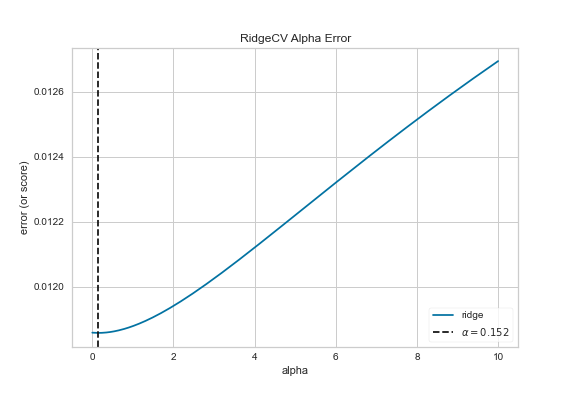
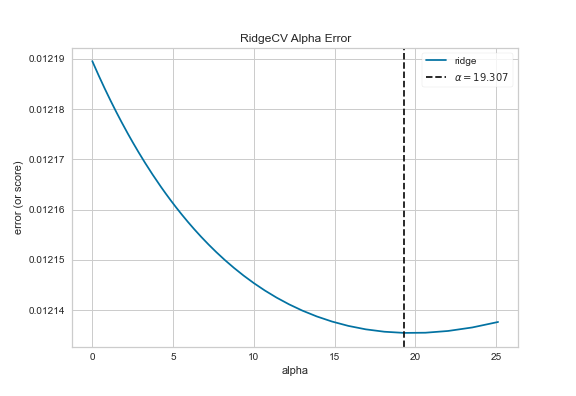
norm ICV

diff --git a/alphachecking_Rachel.py b/alphachecking_Rachel.py
@@ -12,6 +12,11 @@ from sklearn.model_selection import train_test_split
 from yellowbrick.regressor import ResidualsPlot,  AlphaSelection
 import matplotlib.pyplot as plt
 
+#split data into features and predictor
+def splitdata(df, feat, predictors):   
+    y = df[feat]
+    X = df[predictors]
+    return X, y
 
 #import data
 df_all = pd.read_excel('CondensedDataandKey.xlsx',sheet_name='data')
@@ -34,11 +39,19 @@ df['AgeCat'] = df['Age'].replace(age_dict)
 
 df['Bilat_Hippo_Vol'] = df['FS_L_Hippo_Vol'] + df['FS_R_Hippo_Vol']
 
+ICV, HippoVol = splitdata(df, 'FS_IntraCranial_Vol', 'Bilat_Hippo_Vol')
+ICV = pd.DataFrame(ICV)
+normlize_hippo = LinearRegression()
+normlize_hippo.fit(ICV, HippoVol)
+
+prediction = normlize_hippo.predict(ICV)
+df['Bilat_Hippo_normICV'] = (HippoVol - prediction)
+
 #variables we're controlling for
-control_vars = ['Gender','AgeCat','FS_IntraCranial_Vol']
+control_vars = ['Gender','AgeCat']
 
 #Total PSQI and controls
-pred_PSQI_tot_vars = ['PSQI_Score', 'Gender','AgeCat','FS_IntraCranial_Vol']
+pred_PSQI_tot_vars = ['PSQI_Score', 'Gender','AgeCat']
 
 #PSQI Component subscores (7) 
 pred_PSQI_comp_vars = ['PSQI_Comp1', 'PSQI_Comp2', 'PSQI_Comp3', 'PSQI_Comp4', 'PSQI_Comp5', 'PSQI_Comp6', 'PSQI_Comp7'] + control_vars
@@ -46,7 +59,7 @@ pred_PSQI_comp_vars = ['PSQI_Comp1', 'PSQI_Comp2', 'PSQI_Comp3', 'PSQI_Comp4', '
 pred_cog_vars = ['CogFluidComp_AgeAdj','CogCrystalComp_AgeAdj'] + control_vars
 
 def checkOptimalAlphaTrain(X_train, y_train, savefigure=False):
-    alphas = np.logspace(-10, 1, 400)
+    alphas = np.logspace(-10, 1.4, 400)
     
     # Instantiate the linear model and visualizer
     model = RidgeCV(alphas=alphas)
@@ -88,7 +101,6 @@ def runRidgeRegPresplit(df, X_train, X_test, y_train, y_test, alpha=1):
 
     return linreg, actualvspred, train_results
 
-
 #X, y = splitdata_normalize(df, 'FS_L_Hippo_Vol', pred_PSQI_tot_vars)
 #checkOptimalAlpha(X,y)
 #X,y = splitdata_normalize(df, 'FS_R_Hippo_Vol', pred_PSQI_tot_vars)
@@ -99,21 +111,21 @@ def runRidgeRegPresplit(df, X_train, X_test, y_train, y_test, alpha=1):
 #checkOptimalAlpha(X,y)
 
 
-X_1, y_1 = splitdata_normalize(df, 'Bilat_Hippo_Vol', pred_PSQI_tot_vars)
+X_1, y_1 = splitdata_normalize(df, 'Bilat_Hippo_normICV', pred_PSQI_tot_vars)
 X_train_1, X_test_1, y_train_1, y_test_1 = train_test_split(X_1, y_1, test_size=0.25, random_state=None)
 alpha_1 = checkOptimalAlphaTrain(X_train_1, y_train_1, savefigure = 'alphaTotPSQI.png')
 TotPSQI_reg, TotPSQI_actualvspred, TotPSQI_train_results= runRidgeRegPresplit(
     df, X_train_1, X_test_1, y_train_1, y_test_1, alpha=alpha_1)
 
 
-X_2, y_2 = splitdata_normalize(df, 'Bilat_Hippo_Vol', pred_PSQI_comp_vars)
+X_2, y_2 = splitdata_normalize(df, 'Bilat_Hippo_normICV', pred_PSQI_comp_vars)
 X_train_2, X_test_2, y_train_2, y_test_2 = train_test_split(X_2, y_2, test_size=0.25, random_state=None)
 alpha_2 = checkOptimalAlphaTrain(X_train_2, y_train_2, savefigure = 'alphaCompPSQI.png')
 CompPSQI_reg, CompPSQI_actualvspred, CompPSQI_train_results= runRidgeRegPresplit(
     df, X_train_2, X_test_2, y_train_2, y_test_2, alpha=alpha_2)
 
 
-X_3, y_3 = splitdata_normalize(df, 'Bilat_Hippo_Vol', pred_cog_vars)
+X_3, y_3 = splitdata_normalize(df, 'Bilat_Hippo_normICV', pred_cog_vars)
 X_train_3, X_test_3, y_train_3, y_test_3 = train_test_split(X_3, y_3, test_size=0.25, random_state=None)
 alpha_3 = checkOptimalAlphaTrain(X_train_3, y_train_3, savefigure = 'alphaCompIntelligence.png')
 Cog2_reg, Cog2_actualvspred, Cog2_train_results= runRidgeRegPresplit(
@@ -121,8 +133,16 @@ Cog2_reg, Cog2_actualvspred, Cog2_train_results= runRidgeRegPresplit(
 
 
 
+# ['CogFluidComp_AgeAdj','CogCrystalComp_AgeAdj', 'PSQI_Comp1', 'PSQI_Comp2', 'PSQI_Comp3', 'PSQI_Comp4', 'PSQI_Comp5', 'PSQI_Comp6', 'PSQI_Comp7'] + control_vars
+
+# pred_cog_vars = ['CogFluidComp_AgeAdj','CogCrystalComp_AgeAdj'] + control_vars
 
 
+# X, y = splitdata_normalize(df, 'Bilat_Hippo_Vol', ['CogFluidComp_AgeAdj','CogCrystalComp_AgeAdj', 'PSQI_Comp1', 'PSQI_Comp2', 'PSQI_Comp3', 'PSQI_Comp4', 'PSQI_Comp5', 'PSQI_Comp6', 'PSQI_Comp7'] + control_vars)
+# X_train, X_test, y_train, y_test = train_test_split(X, y, test_size=0.25, random_state=None)
+# alpha = checkOptimalAlphaTrain(X_train, y_train, savefigure = 'alphaCompIntelligence.png')
+# All_reg, All_actualvspred, All_train_results= runRidgeRegPresplit(
+#     df, X_train, X_test, y_train, y_test, alpha=alpha)
 
 
 
